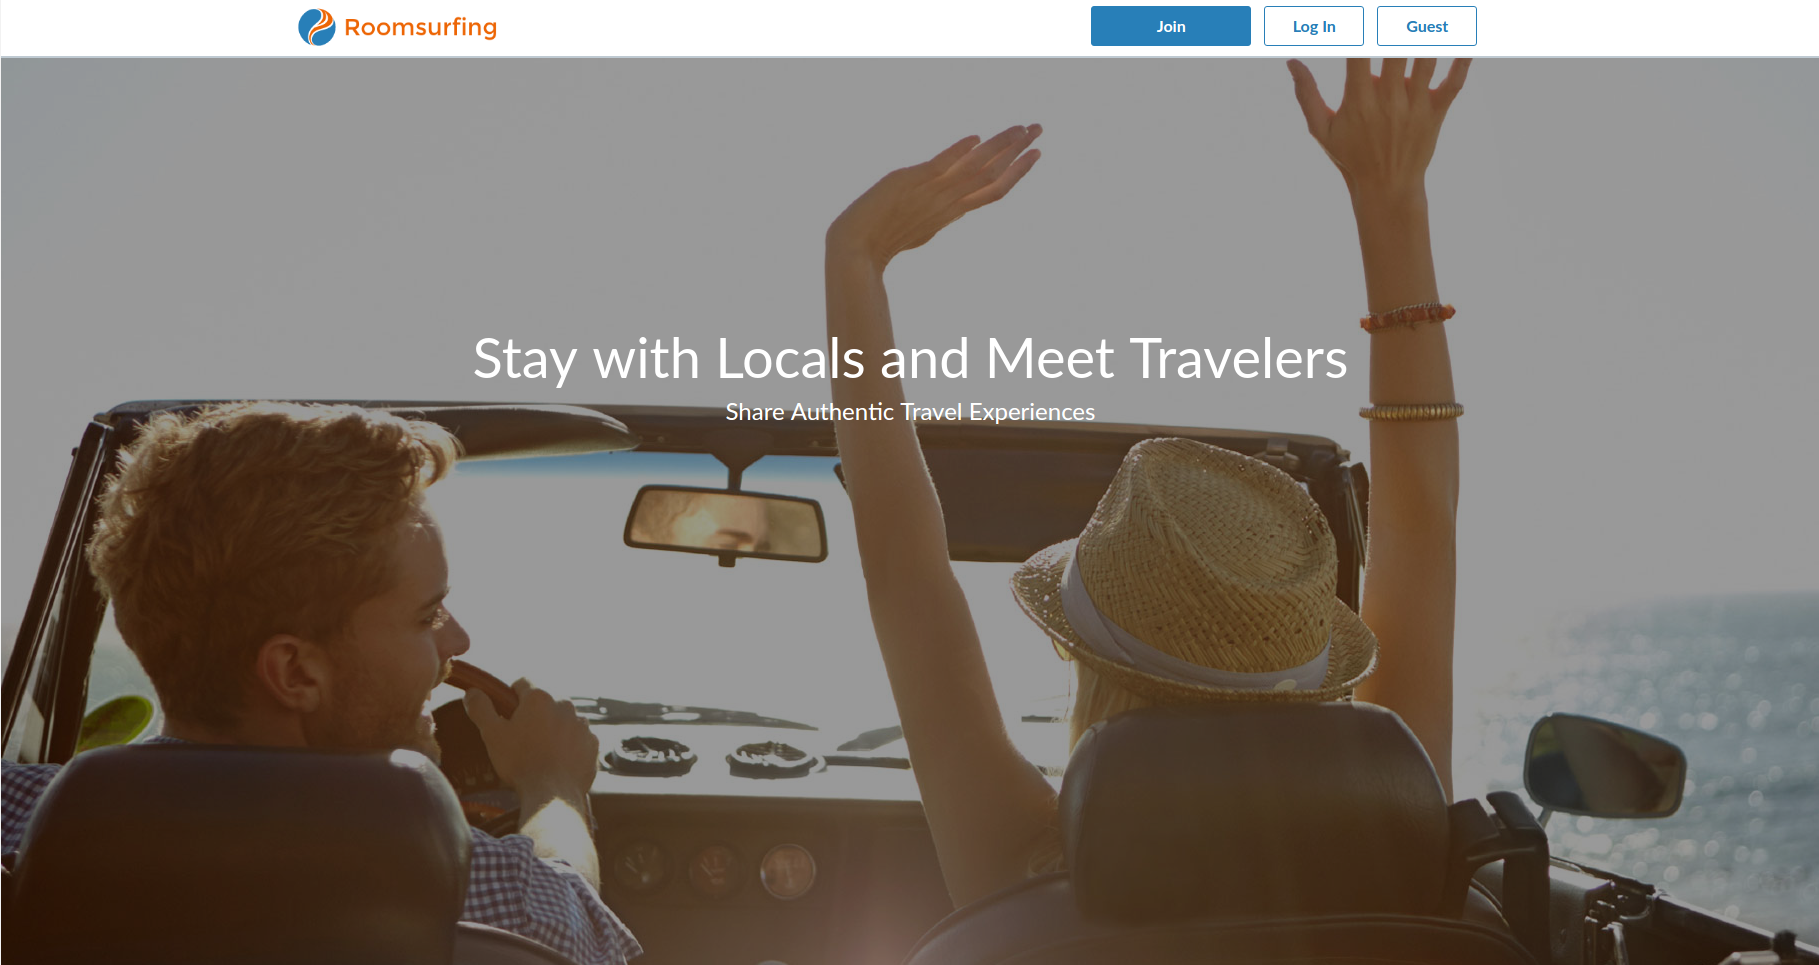
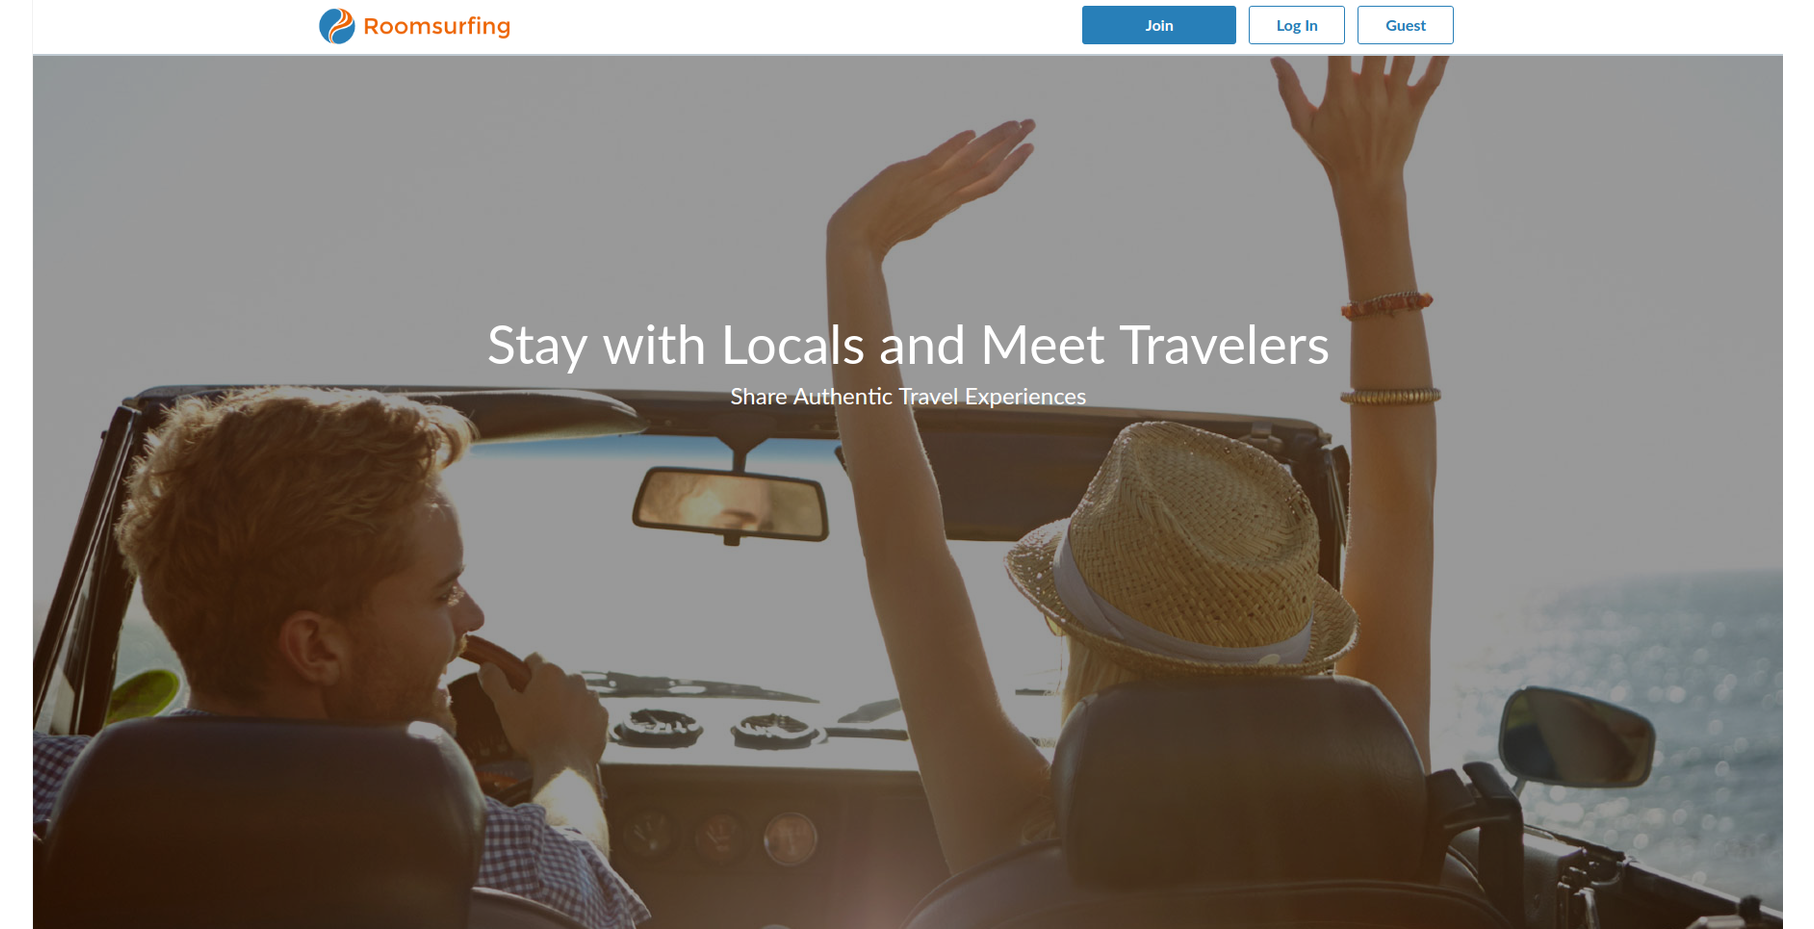
Add target top for guthub

diff --git a/index.html b/index.html
@@ -52,7 +52,7 @@
 
 					<!-- Social Icons -->
 						<ul class="icons">
-							<li><a href="https://github.com/bokats/" class="icon fa-github"><span class="label">Github</span></a></li>
+							<li><a href="https://github.com/bokats/" target="_top" class="icon fa-github"><span class="label">Github</span></a></li>
 							<li><a href="https://www.linkedin.com/in/bo-katsarov/" class="icon fa-linkedin"><span class="label">LinkedIn</span></a></li>
 							<li><a href="mailto:bozhidar.katsarov@gmail.com" class="icon fa-envelope"><span class="label">Email</span></a></li>
 						</ul>

diff --git a/assets/css/main.css b/assets/css/main.css
@@ -1704,7 +1704,6 @@
 		.image img {
 			display: block;
 			width: 100%;
-			height: 220px;
 		}
 
 		.image.avatar48 {
